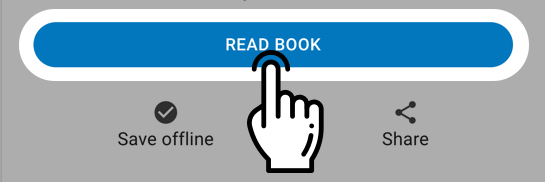
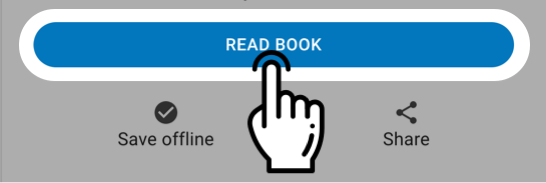
different screenshots for mobile and laptop

diff --git a/packages/gdl-frontend/components/WelcomeTutorial/WelcomeTutorial.js b/packages/gdl-frontend/components/WelcomeTutorial/WelcomeTutorial.js
@@ -4,8 +4,6 @@ import Button from '@material-ui/core/Button';
 import Dialog from '@material-ui/core/Dialog';
 import DialogActions from '@material-ui/core/DialogActions';
 import MobileStepper from '@material-ui/core/MobileStepper';
-import IconButton from '@material-ui/core/IconButton';
-import HelpOutlineIcon from '@material-ui/icons/HelpOutline';
 import Slide from '@material-ui/core/Slide';
 /** @jsx jsx */
 import { css, jsx } from '@emotion/core';
@@ -16,7 +14,9 @@ const grace2 = '/static/img/grace2.png';
 const grace3 = '/static/img/grace3.png';
 const selectLanguage = '/static/img/selectLanguage.png';
 const saveOffline = '/static/img/saveOffline.png';
-const readBook = '/static/img/readBook.png';
+const menu = '/static/img/menu.png';
+const saveOfflineM = '/static/img/saveOfflineM.png';
+const menuM = '/static/img/menuM.png';
 
 type State = {
   open: boolean,
@@ -38,7 +38,8 @@ const Styles = {
     height: '100%',
     display: 'flex',
     flexDirection: 'column',
-    justifyContent: 'space-between'
+    justifyContent: 'space-between',
+    overflow: 'hidden'
   },
   dialogContent: {
     backgroundColor: '#2B8DC8',
@@ -151,14 +152,6 @@ class WelcomeTutorial extends React.Component<Props, State> {
     let mobile: boolean = this.state.width < 500;
     return (
       <div>
-        <IconButton
-          variant="outlined"
-          color="primary"
-          onClick={this.handleClickOpen.bind(this)}
-        >
-          <HelpOutlineIcon />
-        </IconButton>
-
         <Dialog
           fullScreen={mobile}
           open={this.state.open}
@@ -173,6 +166,7 @@ class WelcomeTutorial extends React.Component<Props, State> {
               <div style={{ display: this.state.isHidden1 }}>
                 {getDialogContent(
                   selectLanguage,
+                  selectLanguage,
                   grace1,
                   `Hi! If you want to change the language, click on the globe at the top-right corner of the screen!`,
                   mobile
@@ -186,6 +180,7 @@ class WelcomeTutorial extends React.Component<Props, State> {
             >
               <div style={{ display: this.state.isHidden2 }}>
                 {getDialogContent(
+                  saveOfflineM,
                   saveOffline,
                   grace2,
                   'You can save books for later and read them offline by clicking the Save offline icon.',
@@ -200,9 +195,10 @@ class WelcomeTutorial extends React.Component<Props, State> {
             >
               <div style={{ display: this.state.isHidden3 }}>
                 {getDialogContent(
-                  readBook,
+                  menuM,
+                  menu,
                   grace3,
-                  'To read a book, click on the blue READ BOOK-button. Enjoy! ',
+                  'The menu is in the top left corner. menu menu menu menu menu menu menu menu menu menu',
                   mobile
                 )}
               </div>

diff --git a/packages/gdl-frontend/components/WelcomeTutorial/DialogContent.js b/packages/gdl-frontend/components/WelcomeTutorial/DialogContent.js
@@ -4,15 +4,21 @@ import DialogContent from '@material-ui/core/DialogContent';
 import { Card, CardContent } from '@material-ui/core';
 
 function getDialogContent(
+  screenshotUrlM: string,
   screenshotUrl: string,
   graceImgUrl: string,
   message: string,
   fullscreen: boolean
 ) {
   let isFullscreenStyle;
-  fullscreen
-    ? (isFullscreenStyle = { display: 'flex' })
-    : (isFullscreenStyle = { height: '270px' });
+  let isFullscreenScreenshot;
+  if (fullscreen) {
+    isFullscreenStyle = { display: 'flex' };
+    isFullscreenScreenshot = screenshotUrlM;
+  } else {
+    isFullscreenStyle = { height: '270px' };
+    isFullscreenScreenshot = screenshotUrl;
+  }
   return (
     <DialogContent
       style={{
@@ -25,15 +31,27 @@ function getDialogContent(
     >
       <div style={isFullscreenStyle}>
         <img
-          src={screenshotUrl}
+          src={isFullscreenScreenshot}
           alt="screenshot from the page"
           style={{ width: '100%' }}
         />
       </div>
-      <div style={{ display: 'flex', flexDirection: 'row', marginTop: 25 }}>
+      <div style={{ display: 'flex', flexDirection: 'row', marginTop: 10 }}>
         <img style={{ maxHeight: 182 }} src={graceImgUrl} alt="Grace" />
         <Card style={{ marginLeft: '15px', width: '100%' }}>
-          <CardContent>{message}</CardContent>
+          <CardContent
+            style={{ display: 'table', height: '100%', width: '100%' }}
+          >
+            <p
+              style={{
+                textAlign: 'center',
+                verticalAlign: 'middle',
+                display: 'table-cell'
+              }}
+            >
+              {message}
+            </p>
+          </CardContent>
         </Card>
       </div>
     </DialogContent>
